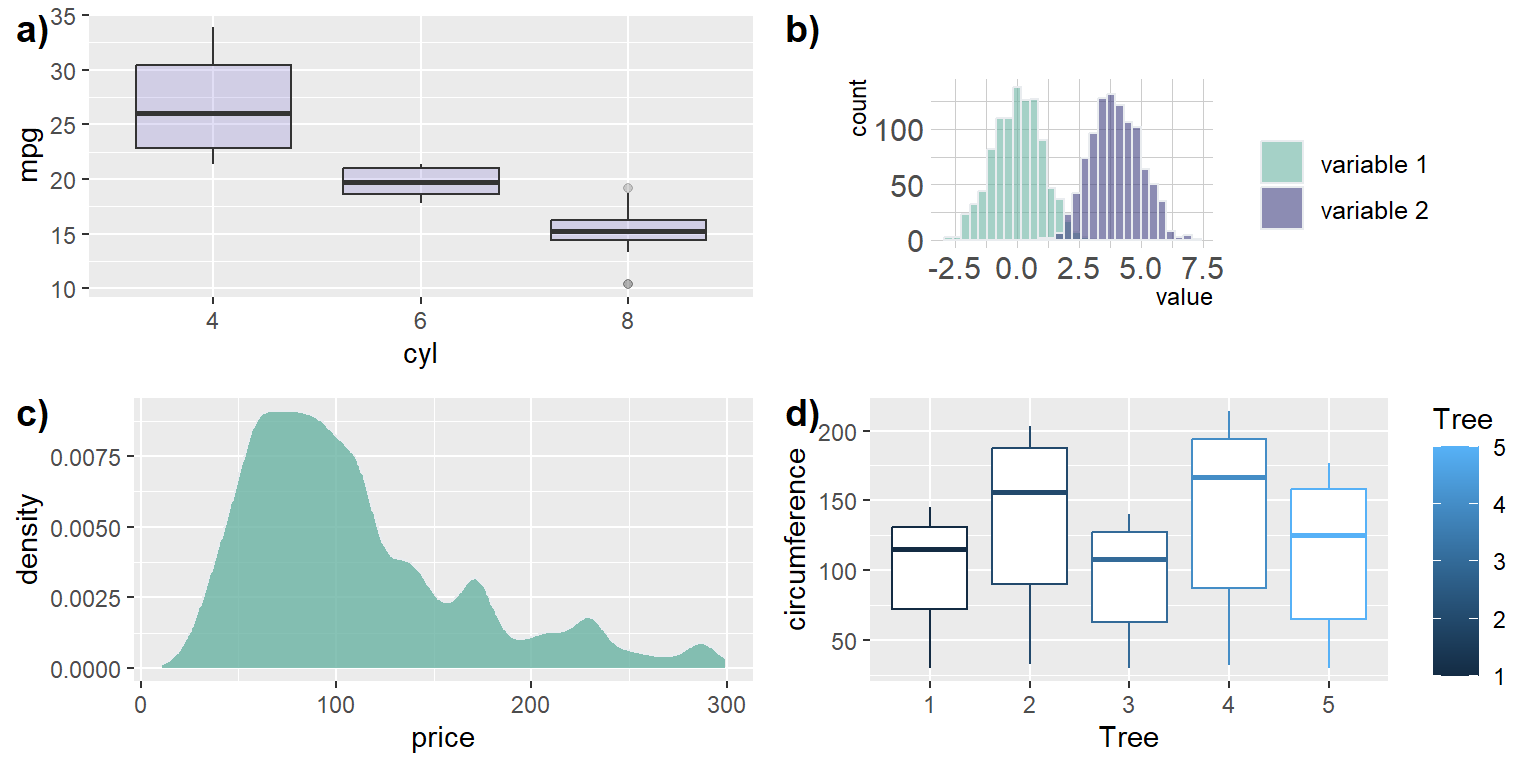
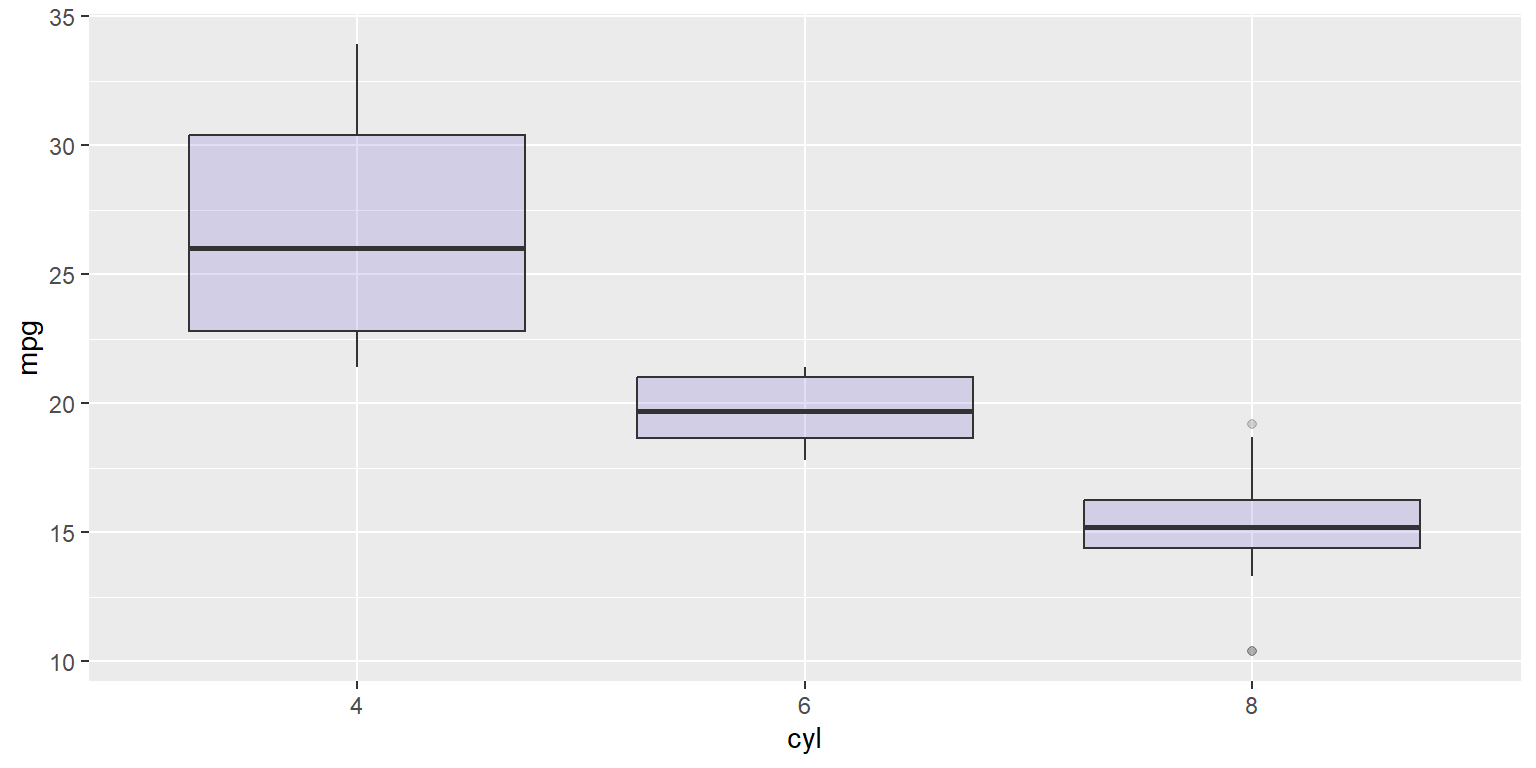
adding workshop 3 changes

diff --git a/docs/workshop3.html b/docs/workshop3.html
@@ -160,12 +160,15 @@ pre > code.sourceCode > span > a:first-child::before { text-decoration: underlin
    
   <ul>
   <li><a href="#plotting-in-r" id="toc-plotting-in-r" class="nav-link active" data-scroll-target="#plotting-in-r">Plotting in R</a></li>
+  <li><a href="#setting-up-packages-and-color-palettes" id="toc-setting-up-packages-and-color-palettes" class="nav-link" data-scroll-target="#setting-up-packages-and-color-palettes">Setting up (packages and color palettes)</a>
+  <ul class="collapse">
   <li><a href="#installing-required-packages" id="toc-installing-required-packages" class="nav-link" data-scroll-target="#installing-required-packages">Installing required packages</a></li>
   <li><a href="#loading-packages" id="toc-loading-packages" class="nav-link" data-scroll-target="#loading-packages">Loading packages</a></li>
   <li><a href="#installing-and-loading-multiple-packages-at-once" id="toc-installing-and-loading-multiple-packages-at-once" class="nav-link" data-scroll-target="#installing-and-loading-multiple-packages-at-once">Installing and loading multiple packages at once</a></li>
   <li><a href="#color-palettes-in-r" id="toc-color-palettes-in-r" class="nav-link" data-scroll-target="#color-palettes-in-r">Color palettes in R</a></li>
   <li><a href="#creating-your-own-color-palette" id="toc-creating-your-own-color-palette" class="nav-link" data-scroll-target="#creating-your-own-color-palette">Creating your own color palette</a></li>
   <li><a href="#dataset-working-with-inbuild-dataset" id="toc-dataset-working-with-inbuild-dataset" class="nav-link" data-scroll-target="#dataset-working-with-inbuild-dataset">Dataset: Working with Inbuild dataset</a></li>
+  </ul></li>
   <li><a href="#ggplot2" id="toc-ggplot2" class="nav-link" data-scroll-target="#ggplot2">ggplot2</a>
   <ul class="collapse">
   <li><a href="#changing-aes-function-by-adding-color" id="toc-changing-aes-function-by-adding-color" class="nav-link" data-scroll-target="#changing-aes-function-by-adding-color">Changing aes function by adding color:</a></li>
@@ -225,6 +228,8 @@ pre > code.sourceCode > span > a:first-child::before { text-decoration: underlin
 </ol>
 <p>For this workshop series we are focusing on ggplot2 package for learning how to create publication quality plots.</p>
 </section>
+<section id="setting-up-packages-and-color-palettes" class="level2">
+<h2 class="anchored" data-anchor-id="setting-up-packages-and-color-palettes">Setting up (packages and color palettes)</h2>
 <section id="installing-required-packages" class="level3">
 <h3 class="anchored" data-anchor-id="installing-required-packages">Installing required packages</h3>
 <div class="sourceCode" id="cb1"><pre class="sourceCode r code-with-copy"><code class="sourceCode r"><span id="cb1-1"><a href="#cb1-1" aria-hidden="true" tabindex="-1"></a><span class="fu">install.packages</span>(<span class="st">"ggplot2"</span>)</span></code><button title="Copy to Clipboard" class="code-copy-button"><i class="bi"></i></button></pre></div>
@@ -337,6 +342,7 @@ $logic
 <pre><code>[1] 150   5</code></pre>
 </div>
 </div>
+</section>
 </section>
 <section id="ggplot2" class="level2">
 <h2 class="anchored" data-anchor-id="ggplot2">ggplot2</h2>
@@ -844,69 +850,119 @@ $logic
 <section id="multiple-plots-together-in-r" class="level3">
 <h3 class="anchored" data-anchor-id="multiple-plots-together-in-r">Multiple plots together in R</h3>
 <p>You can add multiple figures together from different data sets as well.</p>
-<div class="cell">
+<section id="using-geom-plot-using-mtcars-data" class="level4">
+<h4 class="anchored" data-anchor-id="using-geom-plot-using-mtcars-data">Using geom plot using mtcars data</h4>
+<div class="cell" data-layout-align="center">
 <div class="sourceCode cell-code" id="cb53"><pre class="sourceCode r code-with-copy"><code class="sourceCode r"><span id="cb53-1"><a href="#cb53-1" aria-hidden="true" tabindex="-1"></a><span class="co"># Renaming the figures</span></span>
 <span id="cb53-2"><a href="#cb53-2" aria-hidden="true" tabindex="-1"></a><span class="do">## Geom plot using mtcars data</span></span>
 <span id="cb53-3"><a href="#cb53-3" aria-hidden="true" tabindex="-1"></a></span>
 <span id="cb53-4"><a href="#cb53-4" aria-hidden="true" tabindex="-1"></a>fig1<span class="ot">&lt;-</span><span class="fu">ggplot</span>(mtcars, <span class="fu">aes</span>(<span class="at">x=</span><span class="fu">as.factor</span>(cyl), <span class="at">y=</span>mpg)) <span class="sc">+</span> </span>
 <span id="cb53-5"><a href="#cb53-5" aria-hidden="true" tabindex="-1"></a>    <span class="fu">geom_boxplot</span>(<span class="at">fill=</span><span class="st">"slateblue"</span>, <span class="at">alpha=</span><span class="fl">0.2</span>) <span class="sc">+</span> </span>
 <span id="cb53-6"><a href="#cb53-6" aria-hidden="true" tabindex="-1"></a>    <span class="fu">xlab</span>(<span class="st">"cyl"</span>)</span>
-<span id="cb53-7"><a href="#cb53-7" aria-hidden="true" tabindex="-1"></a></span>
-<span id="cb53-8"><a href="#cb53-8" aria-hidden="true" tabindex="-1"></a><span class="do">## Building a dataset with different distributions</span></span>
-<span id="cb53-9"><a href="#cb53-9" aria-hidden="true" tabindex="-1"></a>data <span class="ot">&lt;-</span> <span class="fu">data.frame</span>(</span>
-<span id="cb53-10"><a href="#cb53-10" aria-hidden="true" tabindex="-1"></a>  <span class="at">type =</span> <span class="fu">c</span>( <span class="fu">rep</span>(<span class="st">"variable 1"</span>, <span class="dv">1000</span>), <span class="fu">rep</span>(<span class="st">"variable 2"</span>, <span class="dv">1000</span>) ),</span>
-<span id="cb53-11"><a href="#cb53-11" aria-hidden="true" tabindex="-1"></a>  <span class="at">value =</span> <span class="fu">c</span>( <span class="fu">rnorm</span>(<span class="dv">1000</span>), <span class="fu">rnorm</span>(<span class="dv">1000</span>, <span class="at">mean=</span><span class="dv">4</span>) ))</span>
-<span id="cb53-12"><a href="#cb53-12" aria-hidden="true" tabindex="-1"></a></span>
-<span id="cb53-13"><a href="#cb53-13" aria-hidden="true" tabindex="-1"></a>fig2<span class="ot">&lt;-</span> data <span class="sc">%&gt;%</span></span>
-<span id="cb53-14"><a href="#cb53-14" aria-hidden="true" tabindex="-1"></a>  <span class="fu">ggplot</span>( <span class="fu">aes</span>(<span class="at">x=</span>value, <span class="at">fill=</span>type)) <span class="sc">+</span></span>
-<span id="cb53-15"><a href="#cb53-15" aria-hidden="true" tabindex="-1"></a>  <span class="fu">geom_histogram</span>( <span class="at">color=</span><span class="st">"#e9ecef"</span>, <span class="at">alpha=</span><span class="fl">0.6</span>, <span class="at">position =</span> <span class="st">'identity'</span>) <span class="sc">+</span></span>
-<span id="cb53-16"><a href="#cb53-16" aria-hidden="true" tabindex="-1"></a>  <span class="fu">scale_fill_manual</span>(<span class="at">values=</span><span class="fu">c</span>(<span class="st">"#69b3a2"</span>, <span class="st">"#404080"</span>)) <span class="sc">+</span></span>
-<span id="cb53-17"><a href="#cb53-17" aria-hidden="true" tabindex="-1"></a>  <span class="fu">theme_ipsum</span>() <span class="sc">+</span></span>
-<span id="cb53-18"><a href="#cb53-18" aria-hidden="true" tabindex="-1"></a>  <span class="fu">labs</span>(<span class="at">fill=</span><span class="st">""</span>)</span>
-<span id="cb53-19"><a href="#cb53-19" aria-hidden="true" tabindex="-1"></a></span>
-<span id="cb53-20"><a href="#cb53-20" aria-hidden="true" tabindex="-1"></a><span class="do">## Loading dataset from github</span></span>
-<span id="cb53-21"><a href="#cb53-21" aria-hidden="true" tabindex="-1"></a>path<span class="ot">&lt;-</span><span class="st">"https://raw.githubusercontent.com/holtzy/data_to_viz/master/Example_dataset/1_OneNum.csv"</span></span>
-<span id="cb53-22"><a href="#cb53-22" aria-hidden="true" tabindex="-1"></a></span>
-<span id="cb53-23"><a href="#cb53-23" aria-hidden="true" tabindex="-1"></a>data <span class="ot">&lt;-</span> <span class="fu">read.table</span>(path, <span class="at">header=</span><span class="cn">TRUE</span>)</span>
-<span id="cb53-24"><a href="#cb53-24" aria-hidden="true" tabindex="-1"></a></span>
-<span id="cb53-25"><a href="#cb53-25" aria-hidden="true" tabindex="-1"></a><span class="co"># Make the histogram</span></span>
-<span id="cb53-26"><a href="#cb53-26" aria-hidden="true" tabindex="-1"></a>fig3<span class="ot">&lt;-</span> data <span class="sc">%&gt;%</span></span>
-<span id="cb53-27"><a href="#cb53-27" aria-hidden="true" tabindex="-1"></a>  <span class="fu">filter</span>( price<span class="sc">&lt;</span><span class="dv">300</span> ) <span class="sc">%&gt;%</span></span>
-<span id="cb53-28"><a href="#cb53-28" aria-hidden="true" tabindex="-1"></a>  <span class="fu">ggplot</span>( <span class="fu">aes</span>(<span class="at">x=</span>price)) <span class="sc">+</span></span>
-<span id="cb53-29"><a href="#cb53-29" aria-hidden="true" tabindex="-1"></a>  <span class="fu">geom_density</span>(<span class="at">fill=</span><span class="st">"#69b3a2"</span>, <span class="at">color=</span><span class="st">"#e9ecef"</span>, <span class="at">alpha=</span><span class="fl">0.8</span>)</span>
-<span id="cb53-30"><a href="#cb53-30" aria-hidden="true" tabindex="-1"></a></span>
-<span id="cb53-31"><a href="#cb53-31" aria-hidden="true" tabindex="-1"></a><span class="do">## Loading dataset from your computer</span></span>
-<span id="cb53-32"><a href="#cb53-32" aria-hidden="true" tabindex="-1"></a><span class="co"># Note you will have to specify a dataset here from your computer for this to work</span></span>
-<span id="cb53-33"><a href="#cb53-33" aria-hidden="true" tabindex="-1"></a><span class="fu">data</span>(<span class="st">"Orange"</span>)</span>
-<span id="cb53-34"><a href="#cb53-34" aria-hidden="true" tabindex="-1"></a><span class="fu">write.csv</span>(Orange,<span class="st">"newlysaved.csv"</span>,<span class="at">row.names =</span> <span class="cn">FALSE</span>)</span>
-<span id="cb53-35"><a href="#cb53-35" aria-hidden="true" tabindex="-1"></a>data<span class="ot">&lt;-</span><span class="fu">read.csv</span>(<span class="at">file =</span> <span class="st">"newlysaved.csv"</span>)</span>
-<span id="cb53-36"><a href="#cb53-36" aria-hidden="true" tabindex="-1"></a></span>
-<span id="cb53-37"><a href="#cb53-37" aria-hidden="true" tabindex="-1"></a>fig4<span class="ot">&lt;-</span> data <span class="sc">%&gt;%</span></span>
-<span id="cb53-38"><a href="#cb53-38" aria-hidden="true" tabindex="-1"></a>  <span class="fu">ggplot</span>(<span class="fu">aes</span>(<span class="at">x=</span>Tree,<span class="at">y=</span>circumference,<span class="at">color=</span>Tree))<span class="sc">+</span></span>
-<span id="cb53-39"><a href="#cb53-39" aria-hidden="true" tabindex="-1"></a>  <span class="fu">geom_boxplot</span>(<span class="fu">aes</span>(<span class="fu">factor</span>(Tree)))</span>
-<span id="cb53-40"><a href="#cb53-40" aria-hidden="true" tabindex="-1"></a></span>
-<span id="cb53-41"><a href="#cb53-41" aria-hidden="true" tabindex="-1"></a>all.fig<span class="ot">&lt;-</span><span class="fu">ggarrange</span>(<span class="at">nrow =</span> <span class="dv">2</span>,<span class="at">ncol =</span> <span class="dv">2</span>, </span>
-<span id="cb53-42"><a href="#cb53-42" aria-hidden="true" tabindex="-1"></a>                  fig1,fig2,fig3,fig4,</span>
-<span id="cb53-43"><a href="#cb53-43" aria-hidden="true" tabindex="-1"></a>                  <span class="at">labels =</span> <span class="fu">c</span>(<span class="st">"a)"</span>,<span class="st">"b)"</span>,<span class="st">"c)"</span>,<span class="st">"d)"</span>))</span></code><button title="Copy to Clipboard" class="code-copy-button"><i class="bi"></i></button></pre></div>
-<div class="cell-output cell-output-stderr">
-<pre><code>`stat_bin()` using `bins = 30`. Pick better value with `binwidth`.</code></pre>
-</div>
-</div>
-<div class="cell" data-layout-align="center">
-<div class="sourceCode cell-code" id="cb55"><pre class="sourceCode r code-with-copy"><code class="sourceCode r"><span id="cb55-1"><a href="#cb55-1" aria-hidden="true" tabindex="-1"></a>all.fig</span>
-<span id="cb55-2"><a href="#cb55-2" aria-hidden="true" tabindex="-1"></a></span>
-<span id="cb55-3"><a href="#cb55-3" aria-hidden="true" tabindex="-1"></a><span class="co">#ggsave(filename="MultipleFigures.jpeg", plot=all.fig, width=15, height=8,dpi=600)</span></span></code><button title="Copy to Clipboard" class="code-copy-button"><i class="bi"></i></button></pre></div>
+<span id="cb53-7"><a href="#cb53-7" aria-hidden="true" tabindex="-1"></a>fig1</span></code><button title="Copy to Clipboard" class="code-copy-button"><i class="bi"></i></button></pre></div>
 <div class="cell-output-display">
 <div id="fig-twentyfivefig" class="quarto-figure quarto-figure-center anchored">
 <figure class="figure">
 <p><img src="workshop3_files/figure-html/fig-twentyfivefig-1.png" class="img-fluid figure-img" width="768"></p>
-<figcaption class="figure-caption"><strong>Figure</strong>&nbsp;23<strong>.</strong> Multiple plot together</figcaption>
+<figcaption class="figure-caption"><strong>Figure</strong>&nbsp;23<strong>.</strong> mtcars boxplot</figcaption>
+</figure>
+</div>
+</div>
+</div>
+</section>
+<section id="building-a-dataset-with-different-distributions" class="level4">
+<h4 class="anchored" data-anchor-id="building-a-dataset-with-different-distributions">Building a dataset with different distributions</h4>
+<div class="cell" data-layout-align="center">
+<div class="sourceCode cell-code" id="cb54"><pre class="sourceCode r code-with-copy"><code class="sourceCode r"><span id="cb54-1"><a href="#cb54-1" aria-hidden="true" tabindex="-1"></a>data <span class="ot">&lt;-</span> <span class="fu">data.frame</span>(</span>
+<span id="cb54-2"><a href="#cb54-2" aria-hidden="true" tabindex="-1"></a>  <span class="at">type =</span> <span class="fu">c</span>( <span class="fu">rep</span>(<span class="st">"variable 1"</span>, <span class="dv">1000</span>), <span class="fu">rep</span>(<span class="st">"variable 2"</span>, <span class="dv">1000</span>) ),</span>
+<span id="cb54-3"><a href="#cb54-3" aria-hidden="true" tabindex="-1"></a>  <span class="at">value =</span> <span class="fu">c</span>( <span class="fu">rnorm</span>(<span class="dv">1000</span>), <span class="fu">rnorm</span>(<span class="dv">1000</span>, <span class="at">mean=</span><span class="dv">4</span>) ))</span>
+<span id="cb54-4"><a href="#cb54-4" aria-hidden="true" tabindex="-1"></a></span>
+<span id="cb54-5"><a href="#cb54-5" aria-hidden="true" tabindex="-1"></a>fig2<span class="ot">&lt;-</span> data <span class="sc">%&gt;%</span></span>
+<span id="cb54-6"><a href="#cb54-6" aria-hidden="true" tabindex="-1"></a>  <span class="fu">ggplot</span>( <span class="fu">aes</span>(<span class="at">x=</span>value, <span class="at">fill=</span>type)) <span class="sc">+</span></span>
+<span id="cb54-7"><a href="#cb54-7" aria-hidden="true" tabindex="-1"></a>  <span class="fu">geom_histogram</span>( <span class="at">color=</span><span class="st">"#e9ecef"</span>, <span class="at">alpha=</span><span class="fl">0.6</span>, <span class="at">position =</span> <span class="st">'identity'</span>) <span class="sc">+</span></span>
+<span id="cb54-8"><a href="#cb54-8" aria-hidden="true" tabindex="-1"></a>  <span class="fu">scale_fill_manual</span>(<span class="at">values=</span><span class="fu">c</span>(<span class="st">"#69b3a2"</span>, <span class="st">"#404080"</span>)) <span class="sc">+</span></span>
+<span id="cb54-9"><a href="#cb54-9" aria-hidden="true" tabindex="-1"></a>  <span class="fu">theme_ipsum</span>() <span class="sc">+</span></span>
+<span id="cb54-10"><a href="#cb54-10" aria-hidden="true" tabindex="-1"></a>  <span class="fu">labs</span>(<span class="at">fill=</span><span class="st">""</span>)</span>
+<span id="cb54-11"><a href="#cb54-11" aria-hidden="true" tabindex="-1"></a>fig2</span></code><button title="Copy to Clipboard" class="code-copy-button"><i class="bi"></i></button></pre></div>
+<div class="cell-output cell-output-stderr">
+<pre><code>`stat_bin()` using `bins = 30`. Pick better value with `binwidth`.</code></pre>
+</div>
+<div class="cell-output-display">
+<div id="fig-twentysixfig" class="quarto-figure quarto-figure-center anchored">
+<figure class="figure">
+<p><img src="workshop3_files/figure-html/fig-twentysixfig-1.png" class="img-fluid figure-img" width="768"></p>
+<figcaption class="figure-caption"><strong>Figure</strong>&nbsp;24<strong>.</strong> dataset with different distributions</figcaption>
+</figure>
+</div>
+</div>
+</div>
+</section>
+<section id="loading-dataset-from-github" class="level4">
+<h4 class="anchored" data-anchor-id="loading-dataset-from-github">Loading dataset from github</h4>
+<div class="cell" data-layout-align="center">
+<div class="sourceCode cell-code" id="cb56"><pre class="sourceCode r code-with-copy"><code class="sourceCode r"><span id="cb56-1"><a href="#cb56-1" aria-hidden="true" tabindex="-1"></a>path<span class="ot">&lt;-</span><span class="st">"https://raw.githubusercontent.com/holtzy/data_to_viz/master/Example_dataset/1_OneNum.csv"</span></span>
+<span id="cb56-2"><a href="#cb56-2" aria-hidden="true" tabindex="-1"></a></span>
+<span id="cb56-3"><a href="#cb56-3" aria-hidden="true" tabindex="-1"></a>data <span class="ot">&lt;-</span> <span class="fu">read.table</span>(path, <span class="at">header=</span><span class="cn">TRUE</span>)</span>
+<span id="cb56-4"><a href="#cb56-4" aria-hidden="true" tabindex="-1"></a></span>
+<span id="cb56-5"><a href="#cb56-5" aria-hidden="true" tabindex="-1"></a><span class="co"># Make the histogram</span></span>
+<span id="cb56-6"><a href="#cb56-6" aria-hidden="true" tabindex="-1"></a>fig3<span class="ot">&lt;-</span> data <span class="sc">%&gt;%</span></span>
+<span id="cb56-7"><a href="#cb56-7" aria-hidden="true" tabindex="-1"></a>  <span class="fu">filter</span>( price<span class="sc">&lt;</span><span class="dv">300</span> ) <span class="sc">%&gt;%</span></span>
+<span id="cb56-8"><a href="#cb56-8" aria-hidden="true" tabindex="-1"></a>  <span class="fu">ggplot</span>( <span class="fu">aes</span>(<span class="at">x=</span>price)) <span class="sc">+</span></span>
+<span id="cb56-9"><a href="#cb56-9" aria-hidden="true" tabindex="-1"></a>  <span class="fu">geom_density</span>(<span class="at">fill=</span><span class="st">"#69b3a2"</span>, <span class="at">color=</span><span class="st">"#e9ecef"</span>, <span class="at">alpha=</span><span class="fl">0.8</span>)</span>
+<span id="cb56-10"><a href="#cb56-10" aria-hidden="true" tabindex="-1"></a>fig3</span></code><button title="Copy to Clipboard" class="code-copy-button"><i class="bi"></i></button></pre></div>
+<div class="cell-output-display">
+<div id="fig-twentysevenfig" class="quarto-figure quarto-figure-center anchored">
+<figure class="figure">
+<p><img src="workshop3_files/figure-html/fig-twentysevenfig-1.png" class="img-fluid figure-img" width="768"></p>
+<figcaption class="figure-caption"><strong>Figure</strong>&nbsp;25<strong>.</strong> Data from github</figcaption>
+</figure>
+</div>
+</div>
+</div>
+</section>
+<section id="loading-dataset-from-your-computer" class="level4">
+<h4 class="anchored" data-anchor-id="loading-dataset-from-your-computer">Loading dataset from your computer</h4>
+<div class="cell" data-layout-align="center">
+<div class="sourceCode cell-code" id="cb57"><pre class="sourceCode r code-with-copy"><code class="sourceCode r"><span id="cb57-1"><a href="#cb57-1" aria-hidden="true" tabindex="-1"></a><span class="co"># Note you will have to specify a dataset here from your computer for this to work</span></span>
+<span id="cb57-2"><a href="#cb57-2" aria-hidden="true" tabindex="-1"></a><span class="fu">data</span>(<span class="st">"Orange"</span>)</span>
+<span id="cb57-3"><a href="#cb57-3" aria-hidden="true" tabindex="-1"></a><span class="fu">write.csv</span>(Orange,<span class="st">"newlysaved.csv"</span>,<span class="at">row.names =</span> <span class="cn">FALSE</span>)</span>
+<span id="cb57-4"><a href="#cb57-4" aria-hidden="true" tabindex="-1"></a>data<span class="ot">&lt;-</span><span class="fu">read.csv</span>(<span class="at">file =</span> <span class="st">"newlysaved.csv"</span>)</span>
+<span id="cb57-5"><a href="#cb57-5" aria-hidden="true" tabindex="-1"></a></span>
+<span id="cb57-6"><a href="#cb57-6" aria-hidden="true" tabindex="-1"></a>fig4<span class="ot">&lt;-</span> data <span class="sc">%&gt;%</span></span>
+<span id="cb57-7"><a href="#cb57-7" aria-hidden="true" tabindex="-1"></a>  <span class="fu">ggplot</span>(<span class="fu">aes</span>(<span class="at">x=</span>Tree,<span class="at">y=</span>circumference,<span class="at">color=</span>Tree))<span class="sc">+</span></span>
+<span id="cb57-8"><a href="#cb57-8" aria-hidden="true" tabindex="-1"></a>  <span class="fu">geom_boxplot</span>(<span class="fu">aes</span>(<span class="fu">factor</span>(Tree)))</span>
+<span id="cb57-9"><a href="#cb57-9" aria-hidden="true" tabindex="-1"></a>fig4</span></code><button title="Copy to Clipboard" class="code-copy-button"><i class="bi"></i></button></pre></div>
+<div class="cell-output-display">
+<div id="fig-twentyeightfig" class="quarto-figure quarto-figure-center anchored">
+<figure class="figure">
+<p><img src="workshop3_files/figure-html/fig-twentyeightfig-1.png" class="img-fluid figure-img" width="768"></p>
+<figcaption class="figure-caption"><strong>Figure</strong>&nbsp;26<strong>.</strong> Using dataset from your computer</figcaption>
+</figure>
+</div>
+</div>
+</div>
+<div class="cell" data-layout-align="center">
+<div class="sourceCode cell-code" id="cb58"><pre class="sourceCode r code-with-copy"><code class="sourceCode r"><span id="cb58-1"><a href="#cb58-1" aria-hidden="true" tabindex="-1"></a>all.fig<span class="ot">&lt;-</span><span class="fu">ggarrange</span>(<span class="at">nrow =</span> <span class="dv">2</span>,<span class="at">ncol =</span> <span class="dv">2</span>, </span>
+<span id="cb58-2"><a href="#cb58-2" aria-hidden="true" tabindex="-1"></a>                  fig1,fig2,fig3,fig4,</span>
+<span id="cb58-3"><a href="#cb58-3" aria-hidden="true" tabindex="-1"></a>                  <span class="at">labels =</span> <span class="fu">c</span>(<span class="st">"a)"</span>,<span class="st">"b)"</span>,<span class="st">"c)"</span>,<span class="st">"d)"</span>))</span></code><button title="Copy to Clipboard" class="code-copy-button"><i class="bi"></i></button></pre></div>
+<div class="cell-output cell-output-stderr">
+<pre><code>`stat_bin()` using `bins = 30`. Pick better value with `binwidth`.</code></pre>
+</div>
+<div class="sourceCode cell-code" id="cb60"><pre class="sourceCode r code-with-copy"><code class="sourceCode r"><span id="cb60-1"><a href="#cb60-1" aria-hidden="true" tabindex="-1"></a>all.fig</span>
+<span id="cb60-2"><a href="#cb60-2" aria-hidden="true" tabindex="-1"></a></span>
+<span id="cb60-3"><a href="#cb60-3" aria-hidden="true" tabindex="-1"></a><span class="co">#ggsave(filename="MultipleFigures.jpeg", plot=all.fig, width=15, height=8,dpi=600)</span></span></code><button title="Copy to Clipboard" class="code-copy-button"><i class="bi"></i></button></pre></div>
+<div class="cell-output-display">
+<div id="fig-twentyninefig" class="quarto-figure quarto-figure-center anchored">
+<figure class="figure">
+<p><img src="workshop3_files/figure-html/fig-twentyninefig-1.png" class="img-fluid figure-img" width="768"></p>
+<figcaption class="figure-caption"><strong>Figure</strong>&nbsp;27<strong>.</strong> Multiple plot together</figcaption>
 </figure>
 </div>
 </div>
 </div>
 
 
+</section>
 </section>
 </section>
 
